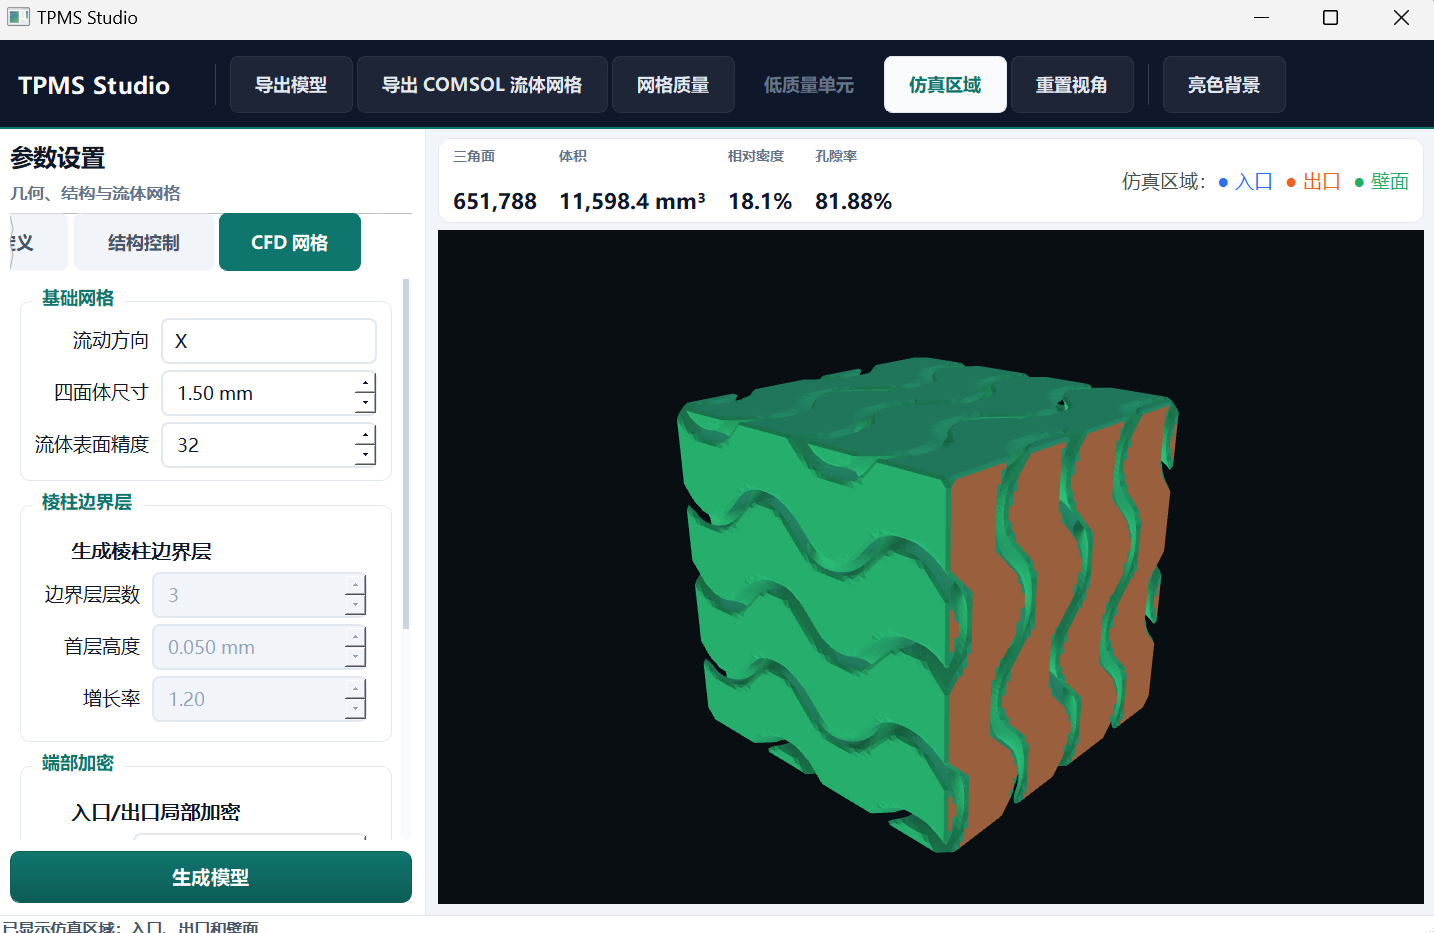
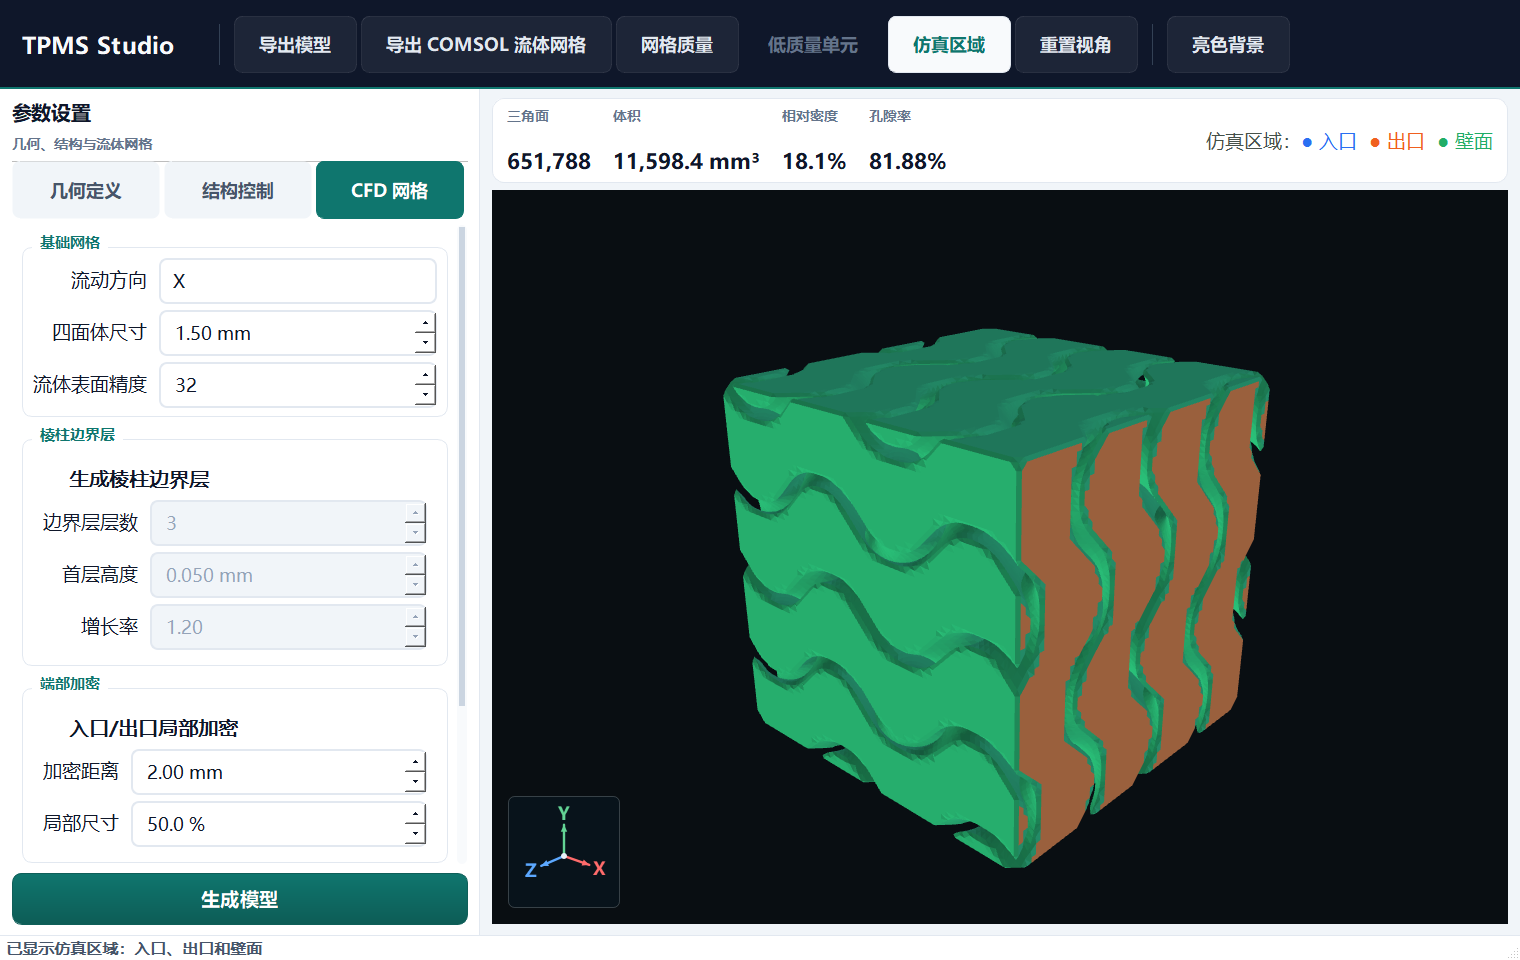
增加XYZ三轴方向标并更新README截图

Changed region(s): [[0.0, 0.0, 1.0, 1.0], [0.4603, 0.3419, 0.8591, 0.9325], [0.3682, 0.8392, 0.3989, 0.9014]]

diff --git a/app.py b/app.py
@@ -7,7 +7,7 @@ import traceback
 from pathlib import Path
 
 import numpy as np
-from PyQt5.QtCore import QObject, QPoint, QThread, QTimer, Qt, pyqtSignal
+from PyQt5.QtCore import QObject, QPoint, QPointF, QRectF, QThread, QTimer, Qt, pyqtSignal
 from PyQt5.QtGui import (
     QColor,
     QMatrix4x4,
@@ -17,6 +17,7 @@ from PyQt5.QtGui import (
     QOpenGLVertexArrayObject,
     QPainter,
     QPen,
+    QPolygonF,
     QSurfaceFormat,
     QVector3D,
 )
@@ -441,6 +442,22 @@ class MeshQualityDialog(QDialog):
         layout.addWidget(buttons)
 
 
+class AxisTriadOverlay(QWidget):
+    def __init__(self, viewport: "OpenGLMeshView") -> None:
+        super().__init__(viewport)
+        self.viewport = viewport
+        self.setFixedSize(112, 112)
+        self.setAttribute(Qt.WA_TransparentForMouseEvents, True)
+        self.setAttribute(Qt.WA_NoSystemBackground, True)
+        self.setAutoFillBackground(False)
+
+    def paintEvent(self, event) -> None:
+        painter = QPainter(self)
+        panel = QRectF(0.5, 0.5, self.width() - 1.0, self.height() - 1.0)
+        self.viewport._paint_axis_triad(painter, panel)
+        painter.end()
+
+
 class OpenGLMeshView(QOpenGLWidget):
     """Retained GPU mesh viewport with shader-based lighting."""
 
@@ -465,6 +482,7 @@ class OpenGLMeshView(QOpenGLWidget):
         self.light_background = False
         self.highlight_mode = False
         self.vertex_color_mode = False
+        self.axis_overlay = AxisTriadOverlay(self)
 
     def initializeGL(self) -> None:
         try:
@@ -639,51 +657,158 @@ class OpenGLMeshView(QOpenGLWidget):
 
     def paintGL(self) -> None:
         self.gl.glClear(0x00004000 | 0x00000100)
-        if self.program is None or self.index_count == 0:
-            return
-        aspect = max(float(self.width()) / max(self.height(), 1), 0.1)
-        projection = QMatrix4x4()
-        projection.perspective(40.0, aspect, 0.05, max(self.distance * 10.0, 500.0))
-        view = QMatrix4x4()
-        view.translate(0.0, 0.0, -self.distance)
-        view.rotate(self.pitch, 1.0, 0.0, 0.0)
-        view.rotate(self.yaw, 0.0, 1.0, 0.0)
-        model = QMatrix4x4()
+        if self.program is not None and self.index_count > 0:
+            aspect = max(float(self.width()) / max(self.height(), 1), 0.1)
+            projection = QMatrix4x4()
+            projection.perspective(40.0, aspect, 0.05, max(self.distance * 10.0, 500.0))
+            view = QMatrix4x4()
+            view.translate(0.0, 0.0, -self.distance)
+            view.rotate(self.pitch, 1.0, 0.0, 0.0)
+            view.rotate(self.yaw, 0.0, 1.0, 0.0)
+            model = QMatrix4x4()
 
-        self.program.bind()
-        self.program.setUniformValue("u_mvp", projection * view * model)
-        self.program.setUniformValue("u_model", model)
-        self.program.setUniformValue("u_camera", QVector3D(0.0, 0.0, self.distance))
-        self.program.setUniformValue("u_light_background", 1.0 if self.light_background else 0.0)
-        self.program.setUniformValue("u_highlight_mode", 1.0 if self.highlight_mode else 0.0)
-        self.program.setUniformValue("u_use_vertex_color", 1.0 if self.vertex_color_mode else 0.0)
-        self.vao.bind()
-        self.ibo.bind()
-        if self.light_background:
-            self.program.setUniformValue("u_outline_mode", 1.0)
-            self.program.setUniformValue("u_outline_width", self.model_radius * 0.006)
-            self.gl.glCullFace(0x0404)  # GL_FRONT
+            self.program.bind()
+            self.program.setUniformValue("u_mvp", projection * view * model)
+            self.program.setUniformValue("u_model", model)
+            self.program.setUniformValue("u_camera", QVector3D(0.0, 0.0, self.distance))
+            self.program.setUniformValue("u_light_background", 1.0 if self.light_background else 0.0)
+            self.program.setUniformValue("u_highlight_mode", 1.0 if self.highlight_mode else 0.0)
+            self.program.setUniformValue("u_use_vertex_color", 1.0 if self.vertex_color_mode else 0.0)
+            self.vao.bind()
+            self.ibo.bind()
+            if self.light_background:
+                self.program.setUniformValue("u_outline_mode", 1.0)
+                self.program.setUniformValue("u_outline_width", self.model_radius * 0.006)
+                self.gl.glCullFace(0x0404)  # GL_FRONT
+                self.gl.glDrawElements(
+                    0x0004,
+                    self.index_count,
+                    0x1405,
+                    ctypes.c_void_p(0),
+                )
+            self.program.setUniformValue("u_outline_mode", 0.0)
+            self.program.setUniformValue("u_outline_width", 0.0)
+            self.gl.glCullFace(0x0405)  # GL_BACK
             self.gl.glDrawElements(
                 0x0004,
                 self.index_count,
                 0x1405,
                 ctypes.c_void_p(0),
             )
-        self.program.setUniformValue("u_outline_mode", 0.0)
-        self.program.setUniformValue("u_outline_width", 0.0)
-        self.gl.glCullFace(0x0405)  # GL_BACK
-        self.gl.glDrawElements(
-            0x0004,
-            self.index_count,
-            0x1405,
-            ctypes.c_void_p(0),
-        )
-        self.ibo.release()
-        self.vao.release()
-        self.program.release()
+            self.ibo.release()
+            self.vao.release()
+            self.program.release()
+
+    def _paint_axis_triad(self, painter: QPainter, panel: QRectF) -> None:
+        origin = QPointF(panel.center().x(), panel.center().y() + 4.0)
+        axis_length = 34.0
+
+        rotation = QMatrix4x4()
+        rotation.rotate(self.pitch, 1.0, 0.0, 0.0)
+        rotation.rotate(self.yaw, 0.0, 1.0, 0.0)
+
+        if self.light_background:
+            surface = QColor(255, 255, 255, 224)
+            border = QColor(31, 52, 61, 58)
+            center_color = QColor(35, 52, 60)
+            axis_colors = {
+                "X": QColor("#B42318"),
+                "Y": QColor("#167447"),
+                "Z": QColor("#175CD3"),
+            }
+        else:
+            surface = QColor(8, 20, 28, 205)
+            border = QColor(221, 238, 245, 56)
+            center_color = QColor(230, 241, 246)
+            axis_colors = {
+                "X": QColor("#FF6B6B"),
+                "Y": QColor("#63D495"),
+                "Z": QColor("#5CA8FF"),
+            }
+
+        axes = []
+        for label, direction in (
+            ("X", QVector3D(1.0, 0.0, 0.0)),
+            ("Y", QVector3D(0.0, 1.0, 0.0)),
+            ("Z", QVector3D(0.0, 0.0, 1.0)),
+        ):
+            vector = rotation.mapVector(direction)
+            screen_vector = QPointF(vector.x() * axis_length, -vector.y() * axis_length)
+            axes.append((vector.z(), label, screen_vector, axis_colors[label]))
+
+        painter.setRenderHint(QPainter.Antialiasing, True)
+        painter.setPen(QPen(border, 1.0))
+        painter.setBrush(surface)
+        painter.drawRoundedRect(panel, 6.0, 6.0)
+
+        label_data = []
+        for _, label, screen_vector, color in sorted(axes, key=lambda item: item[0]):
+            endpoint = origin + screen_vector
+            length = (screen_vector.x() ** 2 + screen_vector.y() ** 2) ** 0.5
+            painter.setPen(QPen(color, 2.4, Qt.SolidLine, Qt.RoundCap))
+            painter.setBrush(color)
+            painter.drawLine(origin, endpoint)
+
+            if length >= 7.0:
+                unit = QPointF(screen_vector.x() / length, screen_vector.y() / length)
+                perpendicular = QPointF(-unit.y(), unit.x())
+                arrow_base = endpoint - unit * 7.0
+                painter.setPen(Qt.NoPen)
+                painter.drawPolygon(
+                    QPolygonF(
+                        [
+                            endpoint,
+                            arrow_base + perpendicular * 3.2,
+                            arrow_base - perpendicular * 3.2,
+                        ]
+                    )
+                )
+            else:
+                fallback = {
+                    "X": QPointF(1.0, 0.0),
+                    "Y": QPointF(-0.5, -0.866),
+                    "Z": QPointF(-0.5, 0.866),
+                }[label]
+                unit = fallback
+                painter.setPen(QPen(color, 1.8))
+                painter.drawEllipse(endpoint, 3.2, 3.2)
+            label_data.append((label, endpoint, unit, color))
+
+        painter.setPen(Qt.NoPen)
+        painter.setBrush(center_color)
+        painter.drawEllipse(origin, 3.0, 3.0)
+
+        font = painter.font()
+        font.setPointSize(9)
+        font.setBold(True)
+        painter.setFont(font)
+        occupied = []
+        for label, endpoint, unit, color in label_data:
+            perpendicular = QPointF(-unit.y(), unit.x())
+            candidates = (
+                endpoint + unit * 11.0,
+                endpoint + perpendicular * 12.0,
+                endpoint - perpendicular * 12.0,
+                endpoint + unit * 17.0,
+            )
+            label_rect = None
+            for center in candidates:
+                candidate = QRectF(center.x() - 8.0, center.y() - 8.0, 16.0, 16.0)
+                candidate.moveLeft(max(panel.left() + 4.0, min(candidate.left(), panel.right() - 20.0)))
+                candidate.moveTop(max(panel.top() + 4.0, min(candidate.top(), panel.bottom() - 20.0)))
+                if not any(candidate.adjusted(-2.0, -2.0, 2.0, 2.0).intersects(rect) for rect in occupied):
+                    label_rect = candidate
+                    break
+            if label_rect is None:
+                label_rect = candidate
+            occupied.append(label_rect)
+            painter.setPen(color)
+            painter.drawText(label_rect, Qt.AlignCenter, label)
 
     def resizeGL(self, width: int, height: int) -> None:
         self.gl.glViewport(0, 0, width, height)
+        self.axis_overlay.move(16, max(16, height - self.axis_overlay.height() - 16))
+        self.axis_overlay.raise_()
 
     def mousePressEvent(self, event) -> None:
         if event.button() in (Qt.LeftButton, Qt.RightButton):
@@ -697,6 +822,7 @@ class OpenGLMeshView(QOpenGLWidget):
             self.last_pos = event.pos()
             self.yaw += delta.x() * 0.45
             self.pitch = max(-89.0, min(89.0, self.pitch + delta.y() * 0.45))
+            self.axis_overlay.update()
             self.update()
         event.accept()
 
@@ -714,6 +840,7 @@ class OpenGLMeshView(QOpenGLWidget):
         self.yaw = -42.0
         self.pitch = 23.0
         self.distance = self.model_radius * 3.20
+        self.axis_overlay.update()
         self.update()
 
     def _apply_background_color(self) -> None:
@@ -728,6 +855,7 @@ class OpenGLMeshView(QOpenGLWidget):
             self.makeCurrent()
             self._apply_background_color()
             self.doneCurrent()
+        self.axis_overlay.update()
         self.update()
 
     def set_highlight_mode(self, enabled: bool) -> None:

diff --git a/DEVELOPMENT_LOG.md b/DEVELOPMENT_LOG.md
@@ -86,6 +86,8 @@ TPMS Studio 是本地运行的 TPMS 参数化建模工具。用户在 GUI 中输
 | R-037 | 优化界面 UI，视觉现代化 | 重构 `app.py:72` `STYLE` 为 `Slate/Teal` 系统：`#f1f5f9/#0f172a/#0f766e`、`8-12px` 圆角、胶囊页签、悬浮指标卡、`teal` 渐变主按钮、细圆角滚动条 | 已完成 |
 | R-038 | 字体太小 | 基准 `15px->18px->19px`，工具栏 `14->18px`、页签 `14->18px`、分组 `14->18px`、输入 `17->18px`、生成 `15->19px`，`1440×900/1120×720` 离屏验证 | 已完成 |
 | R-039 | 运行提示 Code is already running | 排查仓库无该字符串，定位为 IDE/终端防重入，说明 `QApplication` 单例与 `QThread isRunning` 静默返回机制 | 已完成 |
+| R-040 | 在模型预览区增加 XYZ 三轴显示 | 视口左下角增加固定尺寸方向标；红 X、绿 Y、蓝 Z 与字母标签同时传达方向，随模型旋转但不随缩放变化，适配暗色/亮色背景 | 已完成 |
+| R-041 | 更新 Markdown 文档图片并推送 GitHub | 使用当前版本重新生成 `1520×960` 建模和 CFD 仿真区域截图，两张图均展示 XYZ 方向标；README 补充方向标功能说明 | 已完成 |
 
 ## 4. 关键更新详情
 
@@ -202,6 +204,12 @@ TPMS Studio 是本地运行的 TPMS 参数化建模工具。用户在 GUI 中输
 - 缓存验证：`10mm` 二次导出命中 `lru_cache` `hits=1`，`1.8s->1.6s`。
 - 视觉离屏：`1440×900/1120×720` 现代 `Slate/Teal` 样式下无重叠截断，`QSS` `py_compile` 通过，`pytest 22 passed`。
 - 字号复检：`19px` 基准、`18px` 页签/输入、`19px` 生成按钮在两分辨率下均完整显示。
+
+### 2026-09-18（XYZ 方向标）
+
+- 图形验证：暗色、亮色和改变视角后的三组截图均正确显示 XYZ 方向标，方向与模型旋转同步，字母标签无重叠。
+- README 图片验证：重新生成 `1520×960` 的 `image.png` 和 `image-cfd.png`，分别展示 TPMS 建模界面与 CFD 仿真区域，XYZ 方向标均清晰可见。
+- 回归验证：`python -m py_compile app.py tpms_core.py comsol_mesh.py` 通过，`python -m pytest -q` 结果为 `22 passed`。
 
 ## 6. 技术决策
 

diff --git a/CHANGELOG.md b/CHANGELOG.md
@@ -6,12 +6,13 @@
 
 ### 新增
 
+- OpenGL 模型预览区左下角增加固定尺寸的 XYZ 三轴方向标，随模型同步旋转，并分别适配暗色和亮色背景。
 - 增加“仿真区域”视口切换，按入口、出口和壁面分别着色，并显示颜色图例。
 - 仿真区域预览与“低质量单元”定位互斥，关闭后可恢复 TPMS 模型预览。
 - 增加“自定义公式”建模类型，支持坐标变量、常用数学函数和 `min/max` 隐式实体组合。
 - 选择“自定义公式”时自动隐藏无关的周期数量参数，切回内置 TPMS 后恢复显示。
 - 模型生成完成后即可点击“网格质量”；首次查看会在临时目录后台生成 CFD 体网格质量数据，正式导出仍由“导出 COMSOL 流体网格”负责。
-- 重新生成并替换 README 中的建模界面和 CFD 参数界面截图，使文档与当前版本一致。
+- 重新生成并替换 README 中的建模界面和 CFD 参数界面截图，在两张图中展示当前界面和 XYZ 三轴方向标。
 - 扩展 README“界面预览”说明，补充工具栏、参数面板、三维视口、状态栏和 CFD 参数的逐项用途及典型操作流程。
 
 ### 改进
